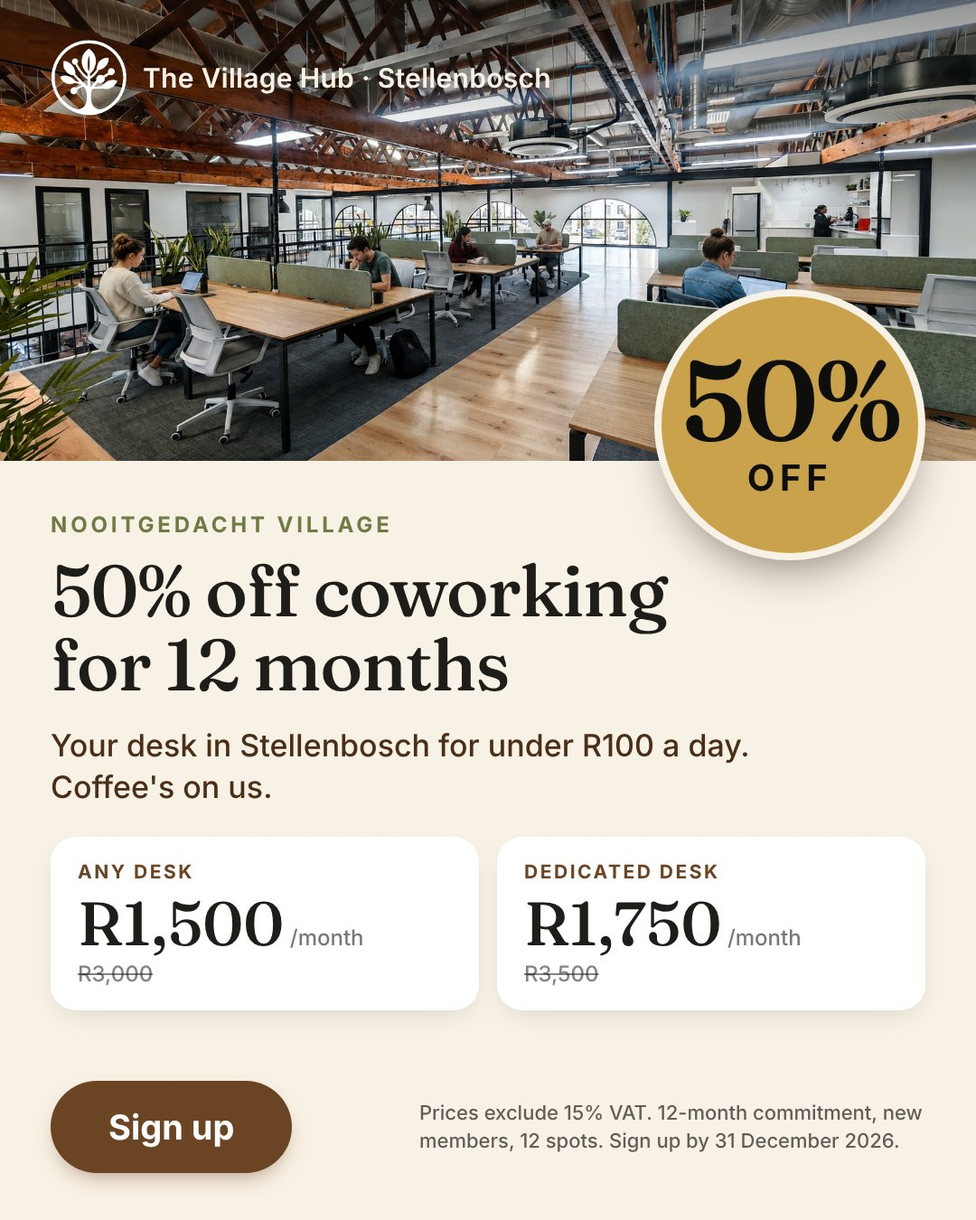
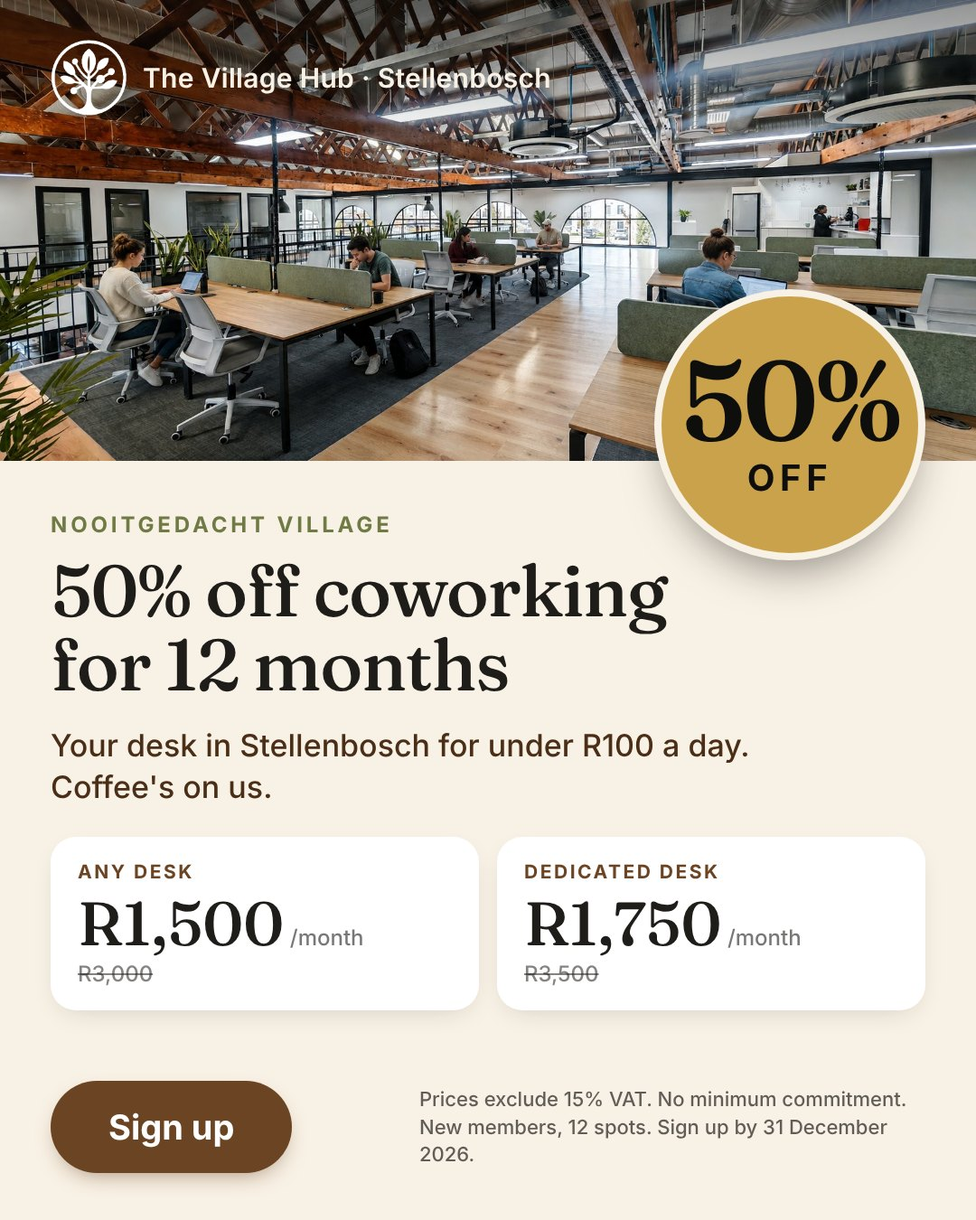
Remove the minimum commitment from the 50% off coworking offer
Month to month, with the 50% price held for up to 12 months.

Claude-Session: https://claude.ai/code/session_011XrpFz3vmEaByepjaaDWFP

Changed region(s): [[0.4278, 0.8711, 0.9472, 0.9644]]

diff --git a/pricing.html b/pricing.html
@@ -69,8 +69,8 @@
       {"@type":"Offer","name":"Village Visitor - 10 Days a Month","price":"1600","priceCurrency":"ZAR","availability":"https://schema.org/InStock","url":"https://www.villagehub.co.za/pricing#desks"},
       {"@type":"Offer","name":"Village Local - Unlimited Month Pass","price":"3000","priceCurrency":"ZAR","availability":"https://schema.org/InStock","url":"https://www.villagehub.co.za/pricing#desks"},
       {"@type":"Offer","name":"Village Resident - Dedicated Desk","price":"3500","priceCurrency":"ZAR","availability":"https://schema.org/InStock","url":"https://www.villagehub.co.za/pricing#desks"},
-      {"@type":"Offer","name":"50% off coworking: any desk, 12 months","price":"1500","priceCurrency":"ZAR","availability":"https://schema.org/LimitedAvailability","priceValidUntil":"2026-12-31","url":"https://www.villagehub.co.za/your-desk-2027","description":"Any desk (Village Local) at R1,500 a month instead of R3,000 for 12 months. Prices exclude 15% VAT. 12-month commitment, new members, 12 spots."},
-      {"@type":"Offer","name":"50% off coworking: dedicated desk, 12 months","price":"1750","priceCurrency":"ZAR","availability":"https://schema.org/LimitedAvailability","priceValidUntil":"2026-12-31","url":"https://www.villagehub.co.za/your-desk-2027","description":"Dedicated desk (Village Resident) at R1,750 a month instead of R3,500 for 12 months. Prices exclude 15% VAT. 12-month commitment, new members, 12 spots."}
+      {"@type":"Offer","name":"50% off coworking: any desk, 12 months","price":"1500","priceCurrency":"ZAR","availability":"https://schema.org/LimitedAvailability","priceValidUntil":"2026-12-31","url":"https://www.villagehub.co.za/your-desk-2027","description":"Any desk (Village Local) at R1,500 a month instead of R3,000 for 12 months. Prices exclude 15% VAT. No minimum commitment, new members, 12 spots."},
+      {"@type":"Offer","name":"50% off coworking: dedicated desk, 12 months","price":"1750","priceCurrency":"ZAR","availability":"https://schema.org/LimitedAvailability","priceValidUntil":"2026-12-31","url":"https://www.villagehub.co.za/your-desk-2027","description":"Dedicated desk (Village Resident) at R1,750 a month instead of R3,500 for 12 months. Prices exclude 15% VAT. No minimum commitment, new members, 12 spots."}
     ]
   }
   </script>
@@ -146,7 +146,7 @@
       {"@type":"Question","name":"How much does a hot desk cost in Stellenbosch?","acceptedAnswer":{"@type":"Answer","text":"At The Village Hub, hot desks are R60 per hour, R150 for a half day, R250 for a full day, R1,000 for 5 days a month, R1,600 for 10 days a month, or R3,000 per month unlimited. A dedicated desk is R3,500 per month. Prices exclude VAT."}},
       {"@type":"Question","name":"What does a private office cost at The Village Hub?","acceptedAnswer":{"@type":"Answer","text":"Village Personal Office (2 seater) R7,500, Village Team Office (4 seater) R13,950 and Village Executive Office (6 seater) R20,950 per month, excluding VAT. There is no 3-seater. All offices are fully furnished with 24/7 secure access. Private offices are a 3-month minimum, then month-to-month."}},
       {"@type":"Question","name":"How much is a virtual office in Stellenbosch?","acceptedAnswer":{"@type":"Answer","text":"Village Address is R595, Village Virtual R1,095 and Village Virtual Pro R1,695 per month excluding VAT. Three-month minimum, then month to month."}},
-      {"@type":"Question","name":"What is the 50% off coworking offer?","acceptedAnswer":{"@type":"Answer","text":"50% off a desk at The Village Hub for 12 months. Any desk (Village Local) is R1,500 a month instead of R3,000, and a dedicated desk (Village Resident) is R1,750 a month instead of R3,500. Prices exclude 15% VAT. Wi-Fi and coffee are included. It is a 12-month commitment for new members, with 12 spots, and sign-ups close on 31 December 2026. We'll confirm renewal pricing before your term ends."}},
+      {"@type":"Question","name":"What is the 50% off coworking offer?","acceptedAnswer":{"@type":"Answer","text":"50% off a desk at The Village Hub for 12 months. Any desk (Village Local) is R1,500 a month instead of R3,000, and a dedicated desk (Village Resident) is R1,750 a month instead of R3,500. Prices exclude 15% VAT. Wi-Fi and coffee are included. There is no minimum commitment: it runs month to month. The offer is for new members, with 12 spots, and sign-ups close on 31 December 2026. We'll confirm renewal pricing before your term ends."}},
       {"@type":"Question","name":"What do student memberships cost?","acceptedAnswer":{"@type":"Answer","text":"The Exam Pass is R795 once-off for the whole November 2026 exam season. Monthly student plans are Student 5-Day R350, Night Owl R495 and Student All-Access R895. Student prices include VAT. A student card and proof of registration are required."}},
       {"@type":"Question","name":"How much is boardroom hire in Stellenbosch?","acceptedAnswer":{"@type":"Answer","text":"The Village Chamber (10 seats) is R350 per hour and the Village Boardroom (12 seats) is R390 per hour, excluding VAT. A small office (2-seater) is R80 per hour and a small office (3-4 seater) is R120 per hour, excluding VAT, with a minimum of 1 hour, booked online. Half-day, full-day and conference packages are quoted on application. Members get discounted room rates."}},
       {"@type":"Question","name":"Are prices inclusive of VAT?","acceptedAnswer":{"@type":"Answer","text":"Hub prices for desks, offices, rooms and virtual office are quoted excluding 15% VAT. Student prices are quoted including VAT."}},
@@ -254,7 +254,7 @@
             </p>
             <h3 class="mt-4 font-display text-4xl font-medium text-ink">50% off coworking for 12 months</h3>
             <p class="mt-1 font-display text-2xl text-bark">Your desk in Stellenbosch for under R100 a day.</p>
-            <p class="mt-3 max-w-2xl text-ink/75">Half price on any desk or a dedicated desk, held for 12 months. Wi-Fi and coffee included. 12-month commitment, new members, 12 spots. Prices exclude 15% VAT.</p>
+            <p class="mt-3 max-w-2xl text-ink/75">Half price on any desk or a dedicated desk, held for up to 12 months. Wi-Fi and coffee included. No minimum commitment, new members, 12 spots. Prices exclude 15% VAT.</p>
             <ul class="mt-5 grid gap-3 sm:grid-cols-2">
               <li class="rounded-2xl bg-white p-4"><p class="font-display text-3xl font-medium text-ink">R1,500 <s class="text-lg text-ink/50">R3,000</s></p><p class="text-sm text-ink/65">/month · any desk (Village Local)</p></li>
               <li class="rounded-2xl bg-white p-4 ring-2 ring-gold"><p class="font-display text-3xl font-medium text-ink">R1,750 <s class="text-lg text-ink/50">R3,500</s></p><p class="text-sm text-ink/65">/month · dedicated desk (Village Resident)</p></li>
@@ -611,7 +611,7 @@
           <details class="rounded-2xl bg-white p-5 shadow-soft"><summary class="flex cursor-pointer items-center justify-between gap-4 font-semibold text-bark">Are there setup fees or long-term contracts?<svg class="chev h-5 w-5 shrink-0 text-sage" fill="none" viewBox="0 0 24 24" stroke="currentColor" stroke-width="2"><path stroke-linecap="round" stroke-linejoin="round" d="M19 9l-7 7-7-7"/></svg></summary><p class="mt-3 text-ink/75">No setup fees. Desk memberships are month to month and can be upgraded, downgraded or cancelled with notice. Virtual office plans carry a three-month minimum, then month to month. Private offices are a 3-month minimum, then month-to-month. Try a day pass first if you want to test the space.</p></details>
           <details class="rounded-2xl bg-white p-5 shadow-soft"><summary class="flex cursor-pointer items-center justify-between gap-4 font-semibold text-bark">What is included in the price?<svg class="chev h-5 w-5 shrink-0 text-sage" fill="none" viewBox="0 0 24 24" stroke="currentColor" stroke-width="2"><path stroke-linecap="round" stroke-linejoin="round" d="M19 9l-7 7-7-7"/></svg></summary><p class="mt-3 text-ink/75">Fast fibre Wi-Fi, power at every seat, ergonomic seating, filter coffee and tea, printing credits on memberships, community events, free parking and member discounts at The Village Table restaurant downstairs.</p></details>
           <details class="rounded-2xl bg-white p-5 shadow-soft"><summary class="flex cursor-pointer items-center justify-between gap-4 font-semibold text-bark">How much does a hot desk cost?<svg class="chev h-5 w-5 shrink-0 text-sage" fill="none" viewBox="0 0 24 24" stroke="currentColor" stroke-width="2"><path stroke-linecap="round" stroke-linejoin="round" d="M19 9l-7 7-7-7"/></svg></summary><p class="mt-3 text-ink/75">R60 an hour, R150 for a half day, R250 for a full day, R1,000 for 5 days a month, R1,600 for 10 days a month, or R3,000 a month unlimited. A dedicated desk of your own is R3,500 a month. <a href="/hot-desk-stellenbosch" class="font-semibold text-sagedeep underline underline-offset-4">Hot desk guide</a>.</p></details>
-          <details class="rounded-2xl bg-white p-5 shadow-soft"><summary class="flex cursor-pointer items-center justify-between gap-4 font-semibold text-bark">What is the 50% off coworking offer?<svg class="chev h-5 w-5 shrink-0 text-sage" fill="none" viewBox="0 0 24 24" stroke="currentColor" stroke-width="2"><path stroke-linecap="round" stroke-linejoin="round" d="M19 9l-7 7-7-7"/></svg></summary><p class="mt-3 text-ink/75">50% off a desk at The Village Hub for 12 months. Any desk (Village Local) is R1,500 a month instead of R3,000, and a dedicated desk (Village Resident) is R1,750 a month instead of R3,500. Prices exclude 15% VAT. Wi-Fi and coffee are included. It is a 12-month commitment for new members, with 12 spots, and sign-ups close on 31 December 2026. We'll confirm renewal pricing before your term ends. <a href="/your-desk-2027" class="font-semibold text-sagedeep underline underline-offset-4">See the offer</a>.</p></details>
+          <details class="rounded-2xl bg-white p-5 shadow-soft"><summary class="flex cursor-pointer items-center justify-between gap-4 font-semibold text-bark">What is the 50% off coworking offer?<svg class="chev h-5 w-5 shrink-0 text-sage" fill="none" viewBox="0 0 24 24" stroke="currentColor" stroke-width="2"><path stroke-linecap="round" stroke-linejoin="round" d="M19 9l-7 7-7-7"/></svg></summary><p class="mt-3 text-ink/75">50% off a desk at The Village Hub for 12 months. Any desk (Village Local) is R1,500 a month instead of R3,000, and a dedicated desk (Village Resident) is R1,750 a month instead of R3,500. Prices exclude 15% VAT. Wi-Fi and coffee are included. There is no minimum commitment: it runs month to month. The offer is for new members, with 12 spots, and sign-ups close on 31 December 2026. We'll confirm renewal pricing before your term ends. <a href="/your-desk-2027" class="font-semibold text-sagedeep underline underline-offset-4">See the offer</a>.</p></details>
           <details class="rounded-2xl bg-white p-5 shadow-soft"><summary class="flex cursor-pointer items-center justify-between gap-4 font-semibold text-bark">What does a private office cost?<svg class="chev h-5 w-5 shrink-0 text-sage" fill="none" viewBox="0 0 24 24" stroke="currentColor" stroke-width="2"><path stroke-linecap="round" stroke-linejoin="round" d="M19 9l-7 7-7-7"/></svg></summary><p class="mt-3 text-ink/75">Village Personal (2 seater) R7,500, Village Team (4 seater) R13,950 and Village Executive (6 seater) R20,950 per month, excluding VAT. There is no 3-seater. All furnished, with 24/7 secure access. 3-month minimum, then month-to-month. Teams of 3+ qualify for volume pricing.</p></details>
           <details class="rounded-2xl bg-white p-5 shadow-soft"><summary class="flex cursor-pointer items-center justify-between gap-4 font-semibold text-bark">How much is a virtual office?<svg class="chev h-5 w-5 shrink-0 text-sage" fill="none" viewBox="0 0 24 24" stroke="currentColor" stroke-width="2"><path stroke-linecap="round" stroke-linejoin="round" d="M19 9l-7 7-7-7"/></svg></summary><p class="mt-3 text-ink/75">Village Address R595, Village Virtual R1,095 and Village Virtual Pro R1,695 per month excl. VAT. Three-month minimum. Activation follows a short compliance check (CIPC, ID, proof of address) and the first payment, usually within 24 hours. <a href="/virtual-office-stellenbosch" class="font-semibold text-sagedeep underline underline-offset-4">Virtual office details</a>.</p></details>
           <details class="rounded-2xl bg-white p-5 shadow-soft"><summary class="flex cursor-pointer items-center justify-between gap-4 font-semibold text-bark">What do student memberships cost?<svg class="chev h-5 w-5 shrink-0 text-sage" fill="none" viewBox="0 0 24 24" stroke="currentColor" stroke-width="2"><path stroke-linecap="round" stroke-linejoin="round" d="M19 9l-7 7-7-7"/></svg></summary><p class="mt-3 text-ink/75">Exam Pass R795 once-off for the November 2026 season (20 passes). Student 5-Day R350, Night Owl R495 and Student All-Access R895 per month, incl. VAT. Student card and proof of registration required; re-verified every February. <a href="/student-study-space-stellenbosch" class="font-semibold text-sagedeep underline underline-offset-4">Student plans</a>.</p></details>

diff --git a/index.html b/index.html
@@ -168,7 +168,7 @@
     "@type": "FAQPage",
     "mainEntity": [
       {"@type":"Question","name":"Where is The Village Hub coworking space located?","acceptedAnswer":{"@type":"Answer","text":"The Village Hub is on the first floor of The Foundry at Nooitgedacht Village in Stellenbosch, Western Cape, just off the R304 with easy access from Cape Town, Somerset West and Paarl. There is ample free on-site parking."}},
-      {"@type":"Question","name":"What are the hot desk prices in Stellenbosch at The Village Hub?","acceptedAnswer":{"@type":"Answer","text":"Hot desks start at R60 per hour, R150 for a half day, R250 for a full day, R1,000 for 5 days, R1,600 for 10 days or R3,000 per month for unlimited access. A dedicated desk is R3,500 per month. Prices exclude VAT. New members who sign up by 31 December 2026 get 50% off for 12 months: R1,500 a month for unlimited any-desk access or R1,750 a month for a dedicated desk, excluding VAT, on a 12-month commitment."}},
+      {"@type":"Question","name":"What are the hot desk prices in Stellenbosch at The Village Hub?","acceptedAnswer":{"@type":"Answer","text":"Hot desks start at R60 per hour, R150 for a half day, R250 for a full day, R1,000 for 5 days, R1,600 for 10 days or R3,000 per month for unlimited access. A dedicated desk is R3,500 per month. Prices exclude VAT. New members who sign up by 31 December 2026 get 50% off for 12 months: R1,500 a month for unlimited any-desk access or R1,750 a month for a dedicated desk, excluding VAT, with no minimum commitment."}},
       {"@type":"Question","name":"Does The Village Hub offer a virtual office or business address in Stellenbosch?","acceptedAnswer":{"@type":"Answer","text":"Yes. Village Address (R595 pm), Village Virtual (R1,095 pm) and Village Virtual Pro (R1,695 pm), all excluding VAT, give your business a Nooitgedacht Village, Stellenbosch address with mail and parcel handling, same-day WhatsApp notification, hot desk days and member boardroom rates. Village Virtual adds a local phone number and mail forwarding. The registered CIPC and SARS address is included on Village Virtual Pro and is a R250/month excl. VAT add-on (3-month minimum) on Village Address and Village Virtual. Plans have a three-month minimum, then month to month, and go live within 24 hours of sign-up."}},
       {"@type":"Question","name":"Is there a student study space or student membership at The Village Hub?","acceptedAnswer":{"@type":"Answer","text":"Yes. The Exam Pass gives students unlimited 24/7 study access for the whole November exam season (26 October to 5 December 2026) for R795 once-off, limited to 20 passes. Month-to-month student plans run from R350 (Student 5-Day) to R495 (Night Owl, evenings and weekends) and R895 (Student All-Access). Student prices include VAT. A valid student card and proof of registration are required."}},
       {"@type":"Question","name":"Can I hire a boardroom or meeting room in Stellenbosch?","acceptedAnswer":{"@type":"Answer","text":"Yes. The Village Boardroom seats 12 at R390 per hour and the Village Chamber seats 10 at R350 per hour. Both include presentation screens, whiteboards and fast Wi-Fi, with half-day, full-day and conference packages available."}},
@@ -318,12 +318,12 @@
         </p>
         <h2 id="yd-home-title" class="mt-4 font-display text-4xl font-medium leading-[1.05] text-ink sm:text-6xl">50% off coworking for 12 months</h2>
         <p class="mt-2 font-display text-2xl font-medium text-bark sm:text-3xl">Your desk in Stellenbosch for under R100 a day. Coffee's on us.</p>
-        <p class="mt-4 max-w-xl text-lg leading-relaxed text-ink/75">Half price on a desk on the first floor of The Foundry. Choose any desk or a dedicated desk of your own, and keep the price for 12 months.</p>
+        <p class="mt-4 max-w-xl text-lg leading-relaxed text-ink/75">Half price on a desk on the first floor of The Foundry. Choose any desk or a dedicated desk of your own, and keep the price for up to 12 months. No minimum commitment.</p>
         <ul class="mt-6 grid gap-3 sm:grid-cols-2">
           <li class="rounded-2xl bg-white p-4 shadow-soft"><p class="font-display text-3xl font-medium text-ink">R1,500 <s class="text-lg text-ink/50">R3,000</s></p><p class="text-sm text-ink/65">/month · any desk</p></li>
           <li class="rounded-2xl bg-white p-4 shadow-soft ring-2 ring-gold"><p class="font-display text-3xl font-medium text-ink">R1,750 <s class="text-lg text-ink/50">R3,500</s></p><p class="text-sm text-ink/65">/month · dedicated desk</p></li>
         </ul>
-        <p class="mt-4 text-sm text-ink/65">Wi-Fi and coffee included. 12-month commitment, new members, 12 spots. Prices exclude 15% VAT.</p>
+        <p class="mt-4 text-sm text-ink/65">Wi-Fi and coffee included. No minimum commitment, new members, 12 spots. Prices exclude 15% VAT.</p>
         <div class="mt-6 flex flex-col gap-3 sm:flex-row sm:flex-wrap">
           <a class="btn btn-bark" href="/your-desk-2027">Sign up</a>
           <a class="btn btn-wa" href="https://wa.me/27632603513?text=Hi%2C%20I%27d%20like%20to%20sign%20up%20for%2050%25%20off%20coworking">WhatsApp us</a>
@@ -713,7 +713,7 @@
         <div class="lg:col-span-8 space-y-3 reveal-stagger">
           <details class="rounded-2xl bg-white p-5 shadow-soft"><summary class="flex items-center justify-between gap-4 font-semibold text-bark">Where is The Village Hub?<svg class="chev h-5 w-5 shrink-0 text-sage" fill="none" viewBox="0 0 24 24" stroke="currentColor" stroke-width="2"><path stroke-linecap="round" stroke-linejoin="round" d="M19 9l-7 7-7-7"/></svg></summary><p class="mt-3 text-ink/75">First floor of The Foundry at Nooitgedacht Village, Stellenbosch, just off the R304. Ten minutes from central Stellenbosch, 15 from Somerset West and about 35 from Cape Town CBD, with free on-site parking.</p></details>
           <details class="rounded-2xl bg-white p-5 shadow-soft"><summary class="flex items-center justify-between gap-4 font-semibold text-bark">What do hot desks cost?<svg class="chev h-5 w-5 shrink-0 text-sage" fill="none" viewBox="0 0 24 24" stroke="currentColor" stroke-width="2"><path stroke-linecap="round" stroke-linejoin="round" d="M19 9l-7 7-7-7"/></svg></summary><p class="mt-3 text-ink/75">From <strong>R60 an hour</strong>, R150 for a half day, R250 for a full day, R1,000 for 5 days, R1,600 for 10 days or R3,000 a month unlimited. A dedicated desk of your own is R3,500 a month. Hub prices exclude VAT. <a href="/hot-desk-stellenbosch" class="font-semibold text-sagedeep underline underline-offset-4">All hot desk plans</a>.</p></details>
-          <details class="rounded-2xl bg-white p-5 shadow-soft"><summary class="flex items-center justify-between gap-4 font-semibold text-bark">What is the 50% off coworking offer?<svg class="chev h-5 w-5 shrink-0 text-sage" fill="none" viewBox="0 0 24 24" stroke="currentColor" stroke-width="2"><path stroke-linecap="round" stroke-linejoin="round" d="M19 9l-7 7-7-7"/></svg></summary><p class="mt-3 text-ink/75">50% off a desk at The Village Hub for 12 months. Any desk (Village Local) is R1,500 a month instead of R3,000, and a dedicated desk (Village Resident) is R1,750 a month instead of R3,500. Prices exclude 15% VAT. Wi-Fi and coffee are included. It is a 12-month commitment for new members, with 12 spots, and sign-ups close on 31 December 2026. <a href="/your-desk-2027" class="font-semibold text-sagedeep underline underline-offset-4">See the offer</a>.</p></details>
+          <details class="rounded-2xl bg-white p-5 shadow-soft"><summary class="flex items-center justify-between gap-4 font-semibold text-bark">What is the 50% off coworking offer?<svg class="chev h-5 w-5 shrink-0 text-sage" fill="none" viewBox="0 0 24 24" stroke="currentColor" stroke-width="2"><path stroke-linecap="round" stroke-linejoin="round" d="M19 9l-7 7-7-7"/></svg></summary><p class="mt-3 text-ink/75">50% off a desk at The Village Hub for 12 months. Any desk (Village Local) is R1,500 a month instead of R3,000, and a dedicated desk (Village Resident) is R1,750 a month instead of R3,500. Prices exclude 15% VAT. Wi-Fi and coffee are included. There is no minimum commitment: it runs month to month. The offer is for new members, with 12 spots, and sign-ups close on 31 December 2026. <a href="/your-desk-2027" class="font-semibold text-sagedeep underline underline-offset-4">See the offer</a>.</p></details>
           <details class="rounded-2xl bg-white p-5 shadow-soft"><summary class="flex items-center justify-between gap-4 font-semibold text-bark">Do you offer a virtual office or business address?<svg class="chev h-5 w-5 shrink-0 text-sage" fill="none" viewBox="0 0 24 24" stroke="currentColor" stroke-width="2"><path stroke-linecap="round" stroke-linejoin="round" d="M19 9l-7 7-7-7"/></svg></summary><p class="mt-3 text-ink/75">Yes. <strong>Village Address</strong> (R595), <strong>Village Virtual</strong> (R1,095) and <strong>Village Virtual Pro</strong> (R1,695), per month excluding VAT. All three give you a Nooitgedacht Village business address, mail and parcel handling with same-day WhatsApp notification, hot desk days and member boardroom rates. Virtual adds a local phone number and mail forwarding. The registered CIPC and SARS address is included on Pro and is a R250/month excl. VAT add-on (3-month minimum) on Address and Virtual. Three-month minimum, then month to month, live within 24 hours. <a href="/virtual-office-stellenbosch" class="font-semibold text-sagedeep underline underline-offset-4">Virtual office details</a>.</p></details>
           <details class="rounded-2xl bg-white p-5 shadow-soft"><summary class="flex items-center justify-between gap-4 font-semibold text-bark">Is there a student membership?<svg class="chev h-5 w-5 shrink-0 text-sage" fill="none" viewBox="0 0 24 24" stroke="currentColor" stroke-width="2"><path stroke-linecap="round" stroke-linejoin="round" d="M19 9l-7 7-7-7"/></svg></summary><p class="mt-3 text-ink/75">Yes. The <strong>Exam Pass</strong> is R795 once-off for unlimited 24/7 study access over the whole November exam season (26 October to 5 December 2026, 20 passes only). Month-to-month student plans run from R350 (Student 5-Day) to R495 (Night Owl, evenings and weekends) and R895 (Student All-Access). Student prices include VAT; bring a valid student card and proof of registration. <a href="/student-study-space-stellenbosch" class="font-semibold text-sagedeep underline underline-offset-4">Student plans</a>.</p></details>
           <details class="rounded-2xl bg-white p-5 shadow-soft"><summary class="flex items-center justify-between gap-4 font-semibold text-bark">Can I hire a boardroom or meeting room?<svg class="chev h-5 w-5 shrink-0 text-sage" fill="none" viewBox="0 0 24 24" stroke="currentColor" stroke-width="2"><path stroke-linecap="round" stroke-linejoin="round" d="M19 9l-7 7-7-7"/></svg></summary><p class="mt-3 text-ink/75">Yes. The <strong>Village Boardroom</strong> seats 12 at R390 an hour and the <strong>Village Chamber</strong> seats 10 at R350 an hour. Screens, whiteboards and fast Wi-Fi included; half-day, full-day and conference packages available. <a href="/boardroom-hire-stellenbosch" class="font-semibold text-sagedeep underline underline-offset-4">Book a room</a>.</p></details>

diff --git a/your-desk-2027.html b/your-desk-2027.html
@@ -72,7 +72,7 @@
   "@context": "https://schema.org",
   "@type": "Offer",
   "name": "50% off coworking: any desk",
-  "description": "Any-desk coworking membership at The Village Hub at 50% off for 12 months: R1,500 a month instead of R3,000, excluding 15% VAT. Wi-Fi and coffee included. 12-month commitment, new members, 12 spots, sign up by 31 December 2026.",
+  "description": "Any-desk coworking membership at The Village Hub at 50% off for 12 months: R1,500 a month instead of R3,000, excluding 15% VAT. Wi-Fi and coffee included. No minimum commitment, new members, 12 spots, sign up by 31 December 2026.",
   "url": "https://www.villagehub.co.za/your-desk-2027",
   "image": "https://www.villagehub.co.za/images/campaign/coworking-50-off-poster.jpg",
   "priceCurrency": "ZAR",
@@ -105,7 +105,7 @@
   "@context": "https://schema.org",
   "@type": "Offer",
   "name": "50% off coworking: dedicated desk",
-  "description": "Dedicated desk at The Village Hub at 50% off for 12 months: R1,750 a month instead of R3,500, excluding 15% VAT. Wi-Fi and coffee included. 12-month commitment, new members, 12 spots, sign up by 31 December 2026.",
+  "description": "Dedicated desk at The Village Hub at 50% off for 12 months: R1,750 a month instead of R3,500, excluding 15% VAT. Wi-Fi and coffee included. No minimum commitment, new members, 12 spots, sign up by 31 December 2026.",
   "url": "https://www.villagehub.co.za/your-desk-2027",
   "image": "https://www.villagehub.co.za/images/campaign/coworking-50-off-poster.jpg",
   "priceCurrency": "ZAR",
@@ -156,10 +156,10 @@
     },
     {
       "@type": "Question",
-      "name": "What is the commitment?",
+      "name": "Is there a minimum commitment?",
       "acceptedAnswer": {
         "@type": "Answer",
-        "text": "Twelve months at the 50% off price, billed monthly from the day you sign up. The offer is for new members."
+        "text": "None. There is no minimum commitment. You pay month to month from the day you sign up, and the 50% off price holds for up to 12 months. The offer is for new members."
       }
     },
     {
@@ -180,7 +180,7 @@
     },
     {
       "@type": "Question",
-      "name": "What happens after the 12 months?",
+      "name": "What happens after 12 months?",
       "acceptedAnswer": {
         "@type": "Answer",
         "text": "We'll confirm renewal pricing before your term ends."
@@ -233,14 +233,14 @@
           </p>
           <h1 id="yd-title" class="mt-5 font-display text-5xl font-medium leading-[1.02] text-ink sm:text-6xl lg:text-7xl">50% off coworking for 12 months</h1>
           <p class="mt-4 font-display text-2xl font-medium text-bark sm:text-3xl">Your desk in Stellenbosch for under R100 a day. Coffee's on us.</p>
-          <p class="mt-5 max-w-xl text-lg leading-relaxed text-ink/80">Half price on a desk at The Village Hub, on the first floor of The Foundry, Nooitgedacht Village. Choose any desk or a dedicated desk of your own, and keep the price for 12 months.</p>
+          <p class="mt-5 max-w-xl text-lg leading-relaxed text-ink/80">Half price on a desk at The Village Hub, on the first floor of The Foundry, Nooitgedacht Village. Choose any desk or a dedicated desk of your own, and keep the price for up to 12 months. No minimum commitment.</p>
           <p class="mt-6"><span class="yd-price font-display text-5xl font-medium text-ink">From R1,500</span><span class="ml-1 text-sm font-semibold text-ink/60">/month excl. VAT</span></p>
           <div class="mt-8 flex flex-col gap-3 sm:flex-row sm:flex-wrap">
             <a class="btn btn-bark" href="https://wa.me/27632603513?text=Hi%2C%20I%27d%20like%20to%20sign%20up%20for%2050%25%20off%20coworking">Sign up on WhatsApp</a>
             <a class="btn btn-outline" href="/#interest">Send an enquiry</a>
           </div>
           <p class="mt-4 text-sm leading-relaxed text-ink/70">WhatsApp <a class="font-semibold text-bark underline underline-offset-4" href="tel:+27632603513">+27 63 260 3513</a></p>
-          <p class="text-sm text-ink/60">12 spots · new members · 12-month commitment</p>
+          <p class="text-sm text-ink/60">12 spots · new members · no minimum commitment</p>
         </div>
         <div class="lg:col-span-5">
           <picture>
@@ -256,7 +256,7 @@
         <div class="max-w-2xl">
           <p class="eyebrow text-sage">Choose a desk</p>
           <h2 id="yd-prices" class="mt-3 font-display text-4xl font-medium text-ink sm:text-5xl">Two desks. Both half price.</h2>
-          <p class="mt-4 text-lg text-ink/75">The price holds for 12 months. All prices exclude 15% VAT.</p>
+          <p class="mt-4 text-lg text-ink/75">The price holds for up to 12 months, month to month, with no minimum commitment. All prices exclude 15% VAT.</p>
         </div>
         <div class="mt-10 grid gap-5 lg:grid-cols-2">
           <article class="relative flex flex-col rounded-3xl bg-white p-7 shadow-soft">
@@ -276,7 +276,7 @@
         </div>
         <ul class="mt-8 grid gap-3 text-sm font-semibold text-bark sm:grid-cols-3">
           <li class="rounded-2xl bg-cream px-4 py-3">Wi-Fi and coffee included</li>
-          <li class="rounded-2xl bg-cream px-4 py-3">12-month commitment · new members</li>
+          <li class="rounded-2xl bg-cream px-4 py-3">No minimum commitment · new members</li>
           <li class="rounded-2xl bg-cream px-4 py-3">12 spots · sign up by 31 December</li>
         </ul>
       </div>
@@ -300,7 +300,7 @@
           </li>
           <li class="flex gap-4 rounded-3xl bg-linen p-6">
             <span class="font-display text-4xl font-medium text-gold" aria-hidden="true">3</span>
-            <div><h3 class="font-display text-2xl font-semibold text-bark">Half price for 12 months</h3><p class="mt-1 text-ink/75">You are billed monthly at the 50% off price for 12 months. Prices exclude 15% VAT.</p></div>
+            <div><h3 class="font-display text-2xl font-semibold text-bark">Half price for 12 months</h3><p class="mt-1 text-ink/75">You are billed monthly at the 50% off price for up to 12 months, with no minimum commitment. Prices exclude 15% VAT.</p></div>
           </li>
         </ol>
       </div>
@@ -322,8 +322,8 @@
             <p class="mt-3 text-ink/80">On 22 working days a month, any desk is about R78 a day and a dedicated desk about R91 a day, both including VAT. Wi-Fi and coffee are included.</p>
           </details>
           <details class="rounded-2xl bg-linen p-5 shadow-soft">
-            <summary class="flex cursor-pointer items-center justify-between gap-4 font-semibold text-bark">What is the commitment?<svg class="chev h-5 w-5 shrink-0 text-sage" fill="none" viewBox="0 0 24 24" stroke="currentColor" stroke-width="2" aria-hidden="true"><path stroke-linecap="round" stroke-linejoin="round" d="M19 9l-7 7-7-7"/></svg></summary>
-            <p class="mt-3 text-ink/80">Twelve months at the 50% off price, billed monthly from the day you sign up. The offer is for new members.</p>
+            <summary class="flex cursor-pointer items-center justify-between gap-4 font-semibold text-bark">Is there a minimum commitment?<svg class="chev h-5 w-5 shrink-0 text-sage" fill="none" viewBox="0 0 24 24" stroke="currentColor" stroke-width="2" aria-hidden="true"><path stroke-linecap="round" stroke-linejoin="round" d="M19 9l-7 7-7-7"/></svg></summary>
+            <p class="mt-3 text-ink/80">None. There is no minimum commitment. You pay month to month from the day you sign up, and the 50% off price holds for up to 12 months. The offer is for new members.</p>
           </details>
           <details class="rounded-2xl bg-linen p-5 shadow-soft">
             <summary class="flex cursor-pointer items-center justify-between gap-4 font-semibold text-bark">What is the difference between the two desks?<svg class="chev h-5 w-5 shrink-0 text-sage" fill="none" viewBox="0 0 24 24" stroke="currentColor" stroke-width="2" aria-hidden="true"><path stroke-linecap="round" stroke-linejoin="round" d="M19 9l-7 7-7-7"/></svg></summary>
@@ -334,7 +334,7 @@
             <p class="mt-3 text-ink/80">Twelve, and sign-ups close on 31 December 2026.</p>
           </details>
           <details class="rounded-2xl bg-linen p-5 shadow-soft">
-            <summary class="flex cursor-pointer items-center justify-between gap-4 font-semibold text-bark">What happens after the 12 months?<svg class="chev h-5 w-5 shrink-0 text-sage" fill="none" viewBox="0 0 24 24" stroke="currentColor" stroke-width="2" aria-hidden="true"><path stroke-linecap="round" stroke-linejoin="round" d="M19 9l-7 7-7-7"/></svg></summary>
+            <summary class="flex cursor-pointer items-center justify-between gap-4 font-semibold text-bark">What happens after 12 months?<svg class="chev h-5 w-5 shrink-0 text-sage" fill="none" viewBox="0 0 24 24" stroke="currentColor" stroke-width="2" aria-hidden="true"><path stroke-linecap="round" stroke-linejoin="round" d="M19 9l-7 7-7-7"/></svg></summary>
             <p class="mt-3 text-ink/80">We'll confirm renewal pricing before your term ends.</p>
           </details>
           <details class="rounded-2xl bg-linen p-5 shadow-soft">
@@ -354,7 +354,7 @@
           <a class="btn btn-gold" href="https://wa.me/27632603513?text=Hi%2C%20I%27d%20like%20to%20sign%20up%20for%2050%25%20off%20coworking">Sign up on WhatsApp</a>
           <a class="btn btn-wa" href="tel:+27632603513">Call +27 63 260 3513</a>
         </div>
-        <p class="mt-6 text-sm text-cream/70">First floor, The Foundry, Nooitgedacht Village, Stellenbosch. Wi-Fi and coffee included. Prices exclude 15% VAT. 12-month commitment, new members.</p>
+        <p class="mt-6 text-sm text-cream/70">First floor, The Foundry, Nooitgedacht Village, Stellenbosch. Wi-Fi and coffee included. Prices exclude 15% VAT. No minimum commitment, new members.</p>
       </div>
     </section>
   </main>
